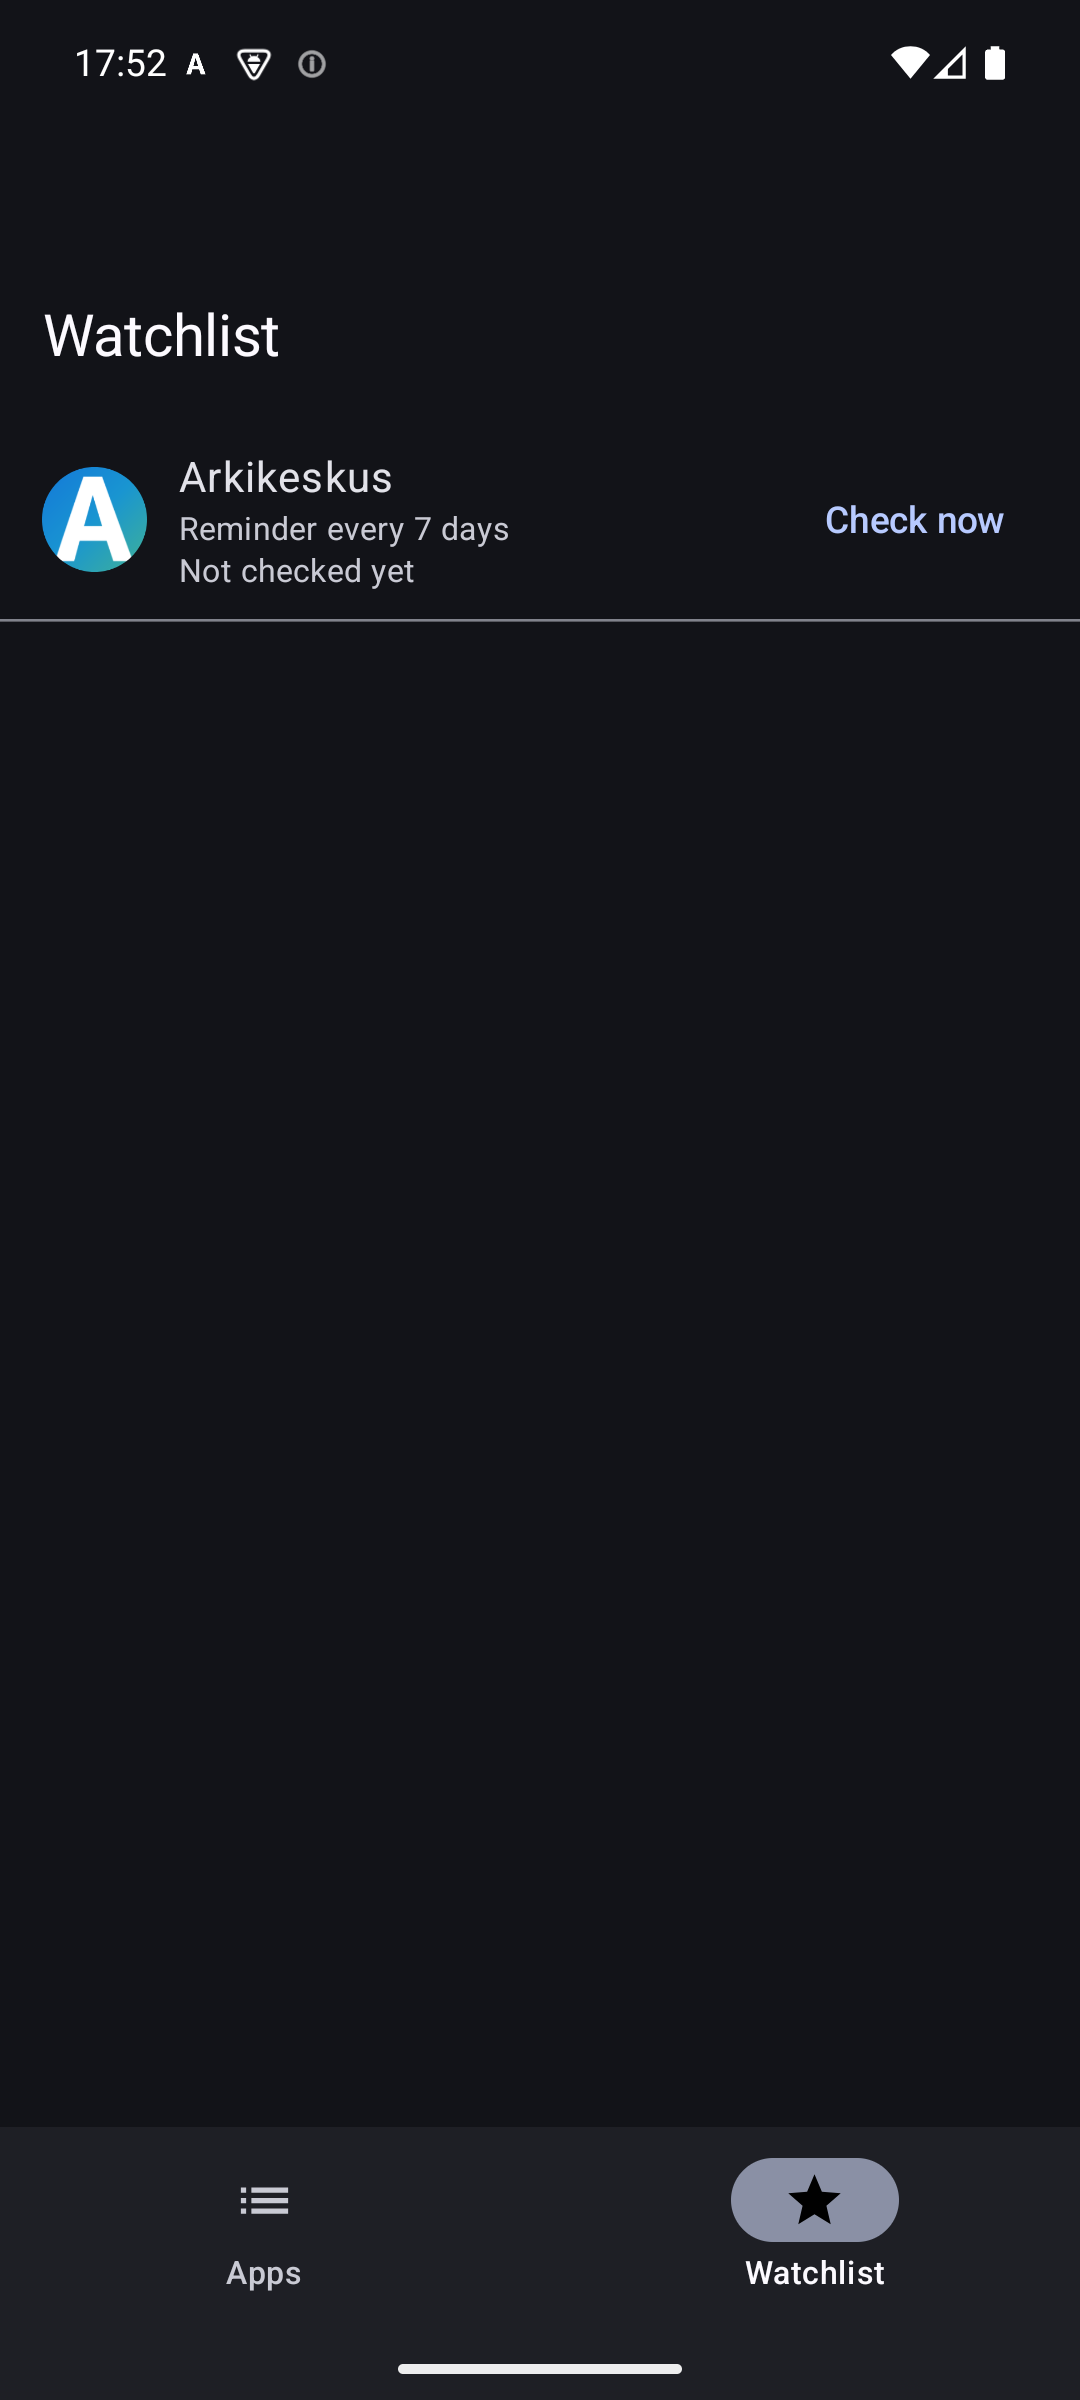
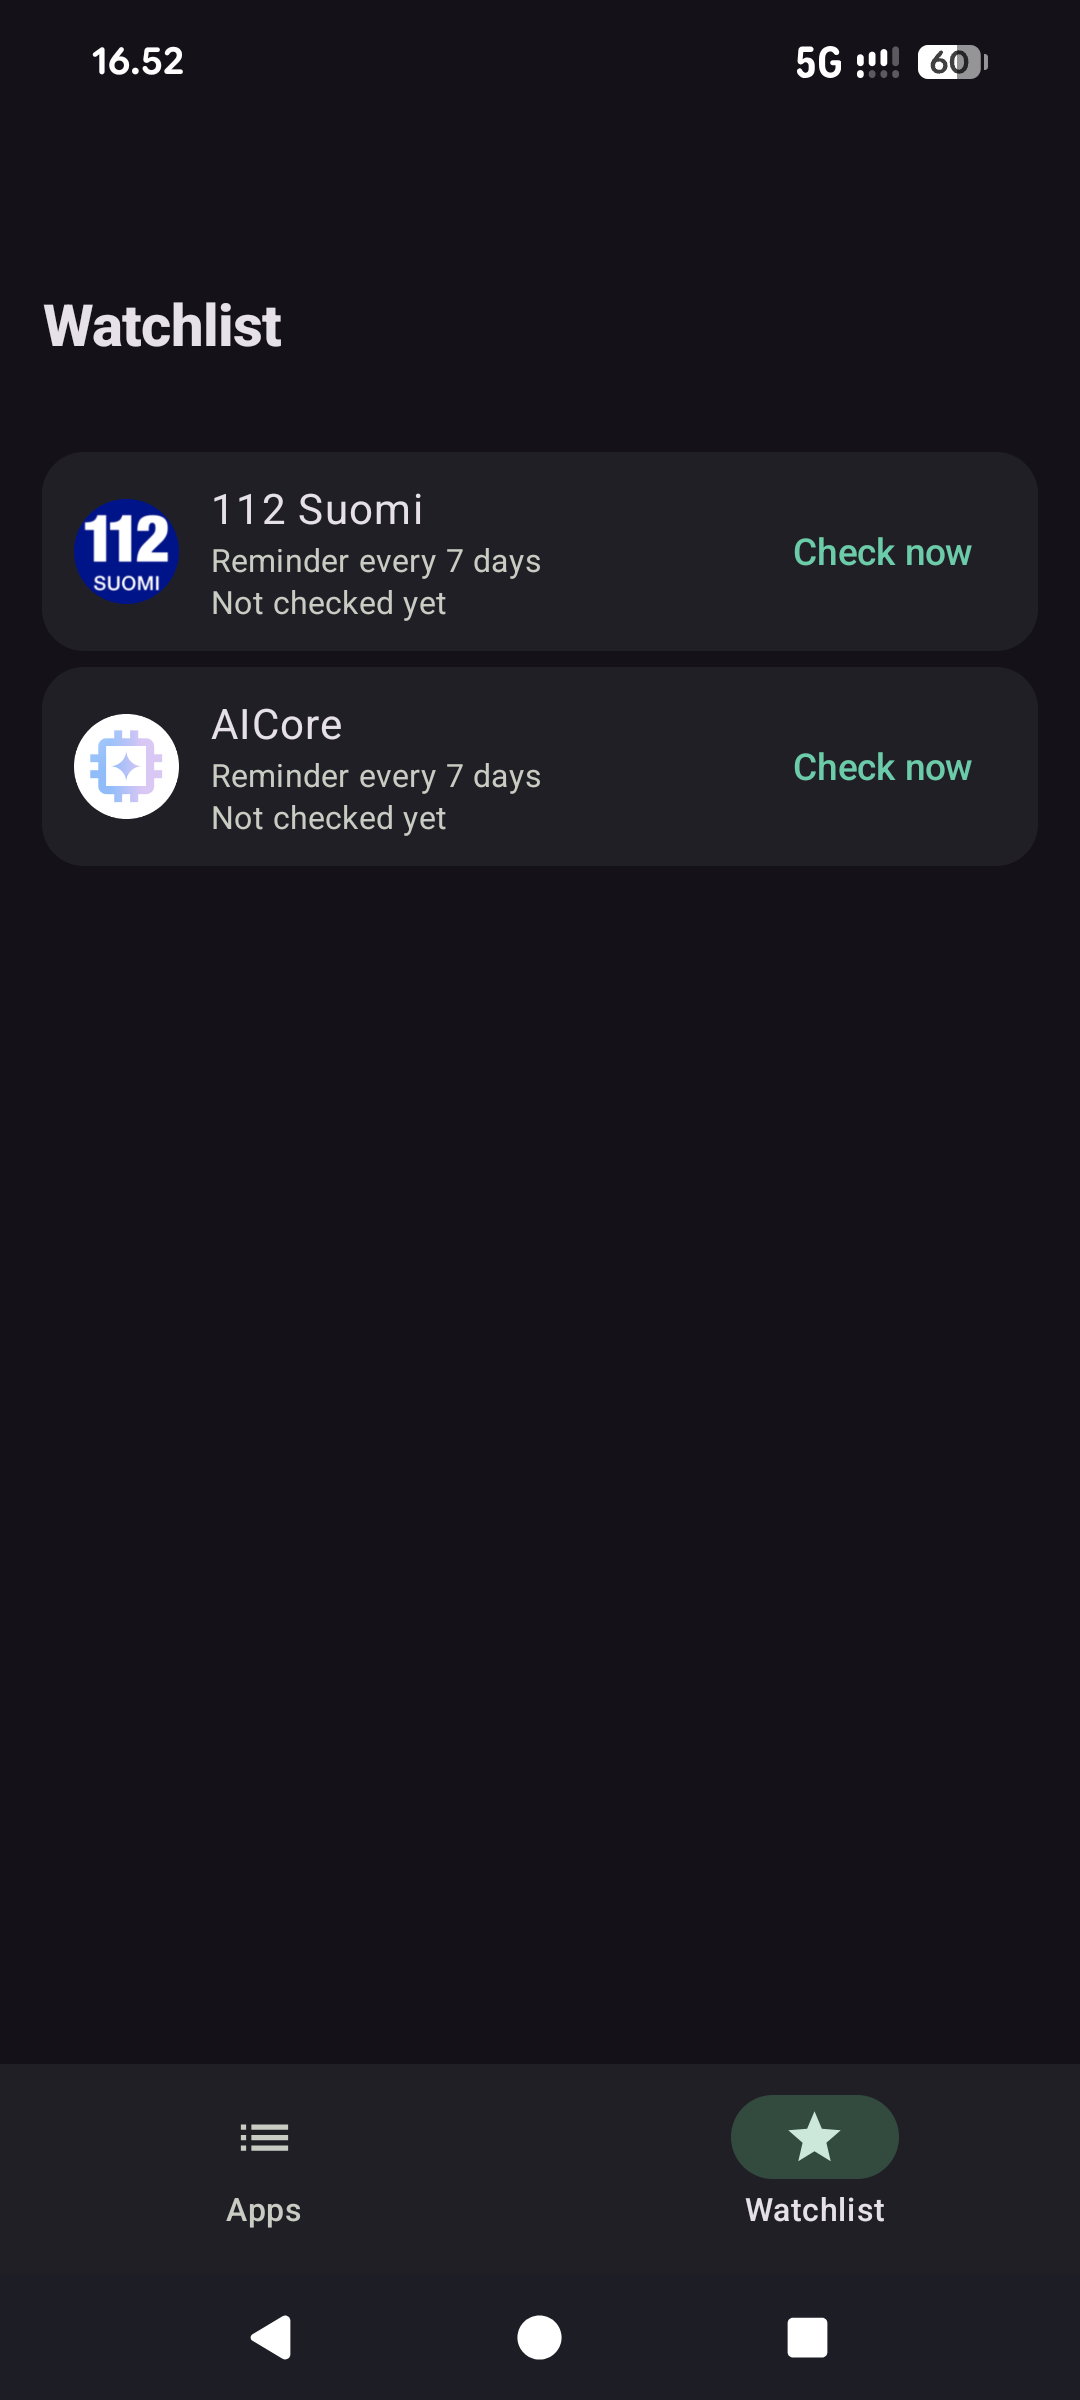
Add media mentions and refresh the README screenshots

diff --git a/README.md b/README.md
@@ -17,6 +17,11 @@ automatically; on Android 13+
 you can also pick the language per app in system settings. Native speakers: corrections
 are very welcome — please [open an issue](https://github.com/jrs8205/BetaScout/issues).
 
+## In the media
+
+- 📰 [Saudi Android's look at BetaScout](https://www.saudiandroid.net/2026/08/%d8%aa%d8%b7%d8%a8%d9%8a%d9%82-betascout-%d8%b9%d9%84%d9%89-%d8%a7%d9%86%d8%af%d8%b1%d9%88%d9%8a%d8%af.html) (in Arabic)
+- ▶ [Video walkthrough by @odorizzioficial](https://youtu.be/pvlpOOCeWUQ) (in Brazilian Portuguese)
+
 ## What it does
 
 - 📋 **Scans installed apps** — name, icon, version and install source, entirely on-device
@@ -47,9 +52,13 @@ Honesty first:
 
 ## Screenshots
 
-| Onboarding | App details | Watchlist |
+| Front page | Joined betas | No beta | App details |
+|:---:|:---:|:---:|:---:|
+| ![Front page](docs/screenshots/frontpage.png) | ![Joined betas](docs/screenshots/joined-page.png) | ![No beta](docs/screenshots/no-beta-page.png) | ![App details](docs/screenshots/app-page.png) |
+
+| App details — no beta | Watchlist | Settings |
 |:---:|:---:|:---:|
-| ![Onboarding](docs/screenshots/onboarding.png) | ![App details](docs/screenshots/app-detail.png) | ![Watchlist](docs/screenshots/watchlist.png) |
+| ![App details with no known beta](docs/screenshots/app-page-no-beta.png) | ![Watchlist](docs/screenshots/watchlist.png) | ![Settings](docs/screenshots/settings.png) |
 
 ## Installation
 
